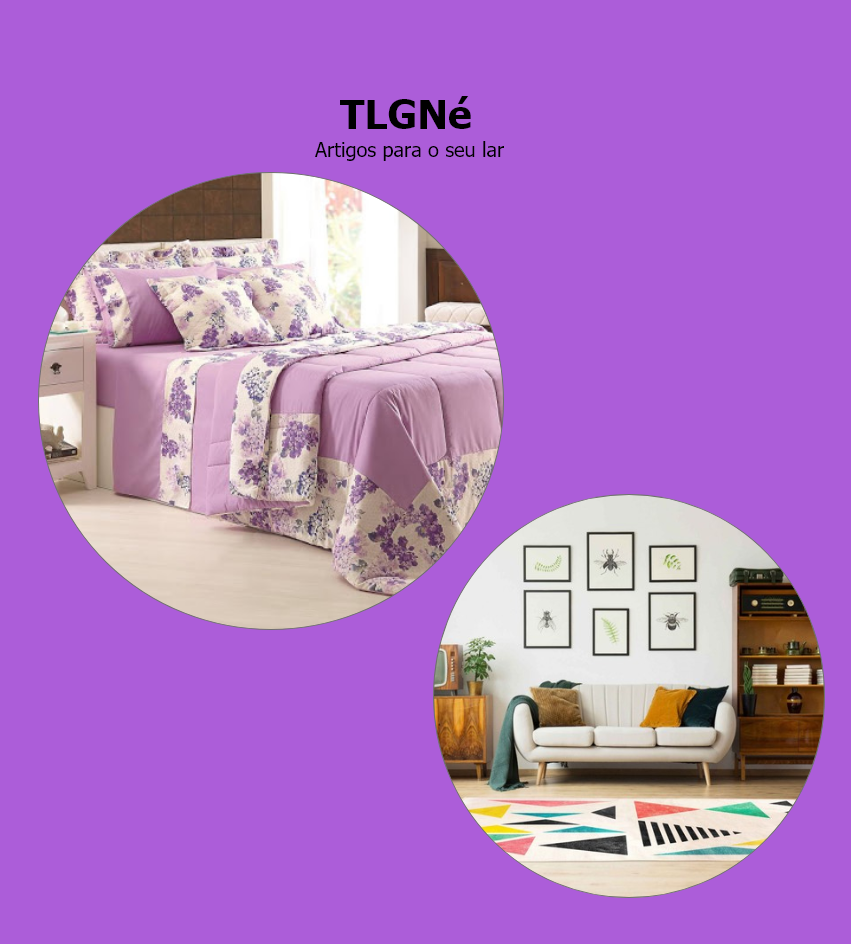
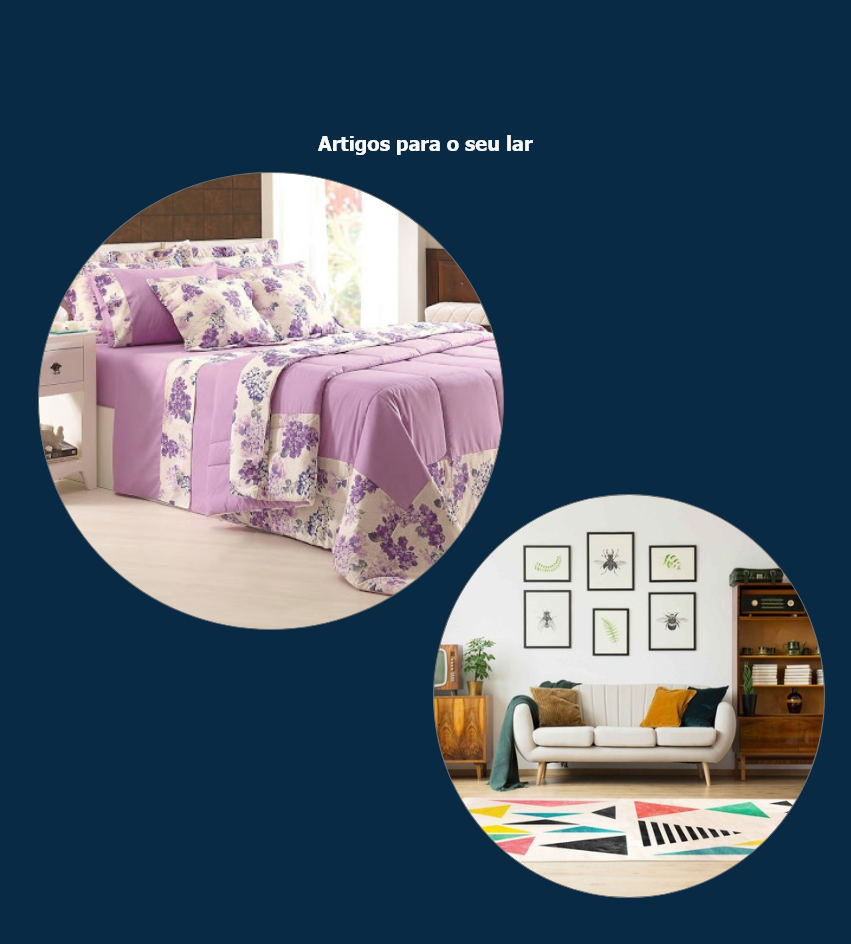
Login com token

diff --git a/src/app/modules/login/login/login.component.ts b/src/app/modules/login/login/login.component.ts
@@ -4,6 +4,7 @@ import { FormBuilder, FormControl, FormGroup, Validators } from '@angular/forms'
 import { Router } from '@angular/router';
 import { ConsoleService } from '@ng-select/ng-select/lib/console.service';
 import { ToastrService } from 'ngx-toastr';
+import { tap } from 'rxjs/operators';
 import { LoginService } from 'src/app/services/login.service';
 import { RoleGuardService } from 'src/app/services/RoleGuard.service';
 import { AuthenticatedUser } from './models/AuthenticatedUser';
@@ -21,7 +22,7 @@ export class LoginComponent implements OnInit {
   public rounded = 'true';
   public block = true;
   public loginForm: FormGroup;
-  public formValid=true;
+  public formValid = true;
   public floating = true;
   public usuarioAutenticado: AuthenticatedUser = new AuthenticatedUser();
 
@@ -44,23 +45,30 @@ export class LoginComponent implements OnInit {
 
   }
 
-  cadastrar(){
+  cadastrar() {
     this.router.navigate(['/criar-conta']);
   }
 
-  login(){
-    if(this.loginForm.valid){
-      this.loginService.login(this.loginForm.value.username, this.loginForm.value.password).subscribe((response: any) => {
-       console.log(response.HttpHeaders )
-      }, HttpErrorResponse => {
-        console.log(HttpErrorResponse)
-        this.toastr.error("Usuário ou senha inválida", "Erro", {
-          timeOut: 3000, positionClass: 'toast-top-center',
-        });
-      });
-    }else{
+  login() {
+    if (this.loginForm.valid) {
+      /* this.loginService.login(this.loginForm.value.username, this.loginForm.value.password).subscribe((response: any) => {
+         console.log(response['headers'].keys());
+         console.log(response['headers'].get('expires'));
+       }, err=>{
+         this.toastr.error("Usuário ou senha inválida", "Erro", {
+           timeOut: 3000, positionClass: 'toast-top-center',
+         });
+       }
+       );*/
+      this.loginService.login(this.loginForm.value.username, this.loginForm.value.password).subscribe(resp => {
+        const token=resp.headers.get('Authorization')?.replace('Bearer', '');
+        window.localStorage.setItem('access_token', token!)
+        this.router.navigate(['/dashboard'])
+      }
+      );
+    } else {
       console.log(this.loginForm.value)
-      this.formValid=false;
+      this.formValid = false;
     }
   }
 

diff --git a/src/app/modules/shared/main-nav-login/main-nav-login.component.html b/src/app/modules/shared/main-nav-login/main-nav-login.component.html
@@ -1,14 +1,11 @@
-<nav class="navbar navbar-expand-lg navbar-light bg-light">
-  <a class="navbar-brand" (click)="dashboard()">TLGNé</a>
+<nav class="navbar navbar-expand-lg navbar-light">
+  <a class="navbar-brand" (click)="dashboard()"><img class="img-fluid" src="../../../../assets/logos/logo_principal.png"></a>
   <button class="navbar-toggler" type="button" data-toggle="collapse" data-target="#navbarNav" aria-controls="navbarNav"
     aria-expanded="false" aria-label="Toggle navigation">
     <span class="navbar-toggler-icon"></span>
   </button>
   <div class="collapse navbar-collapse" id="navbarNav">
     <ul class="navbar-nav mr-auto">
-      <li class="nav-item active">
-        <a class="nav-link" href="#">Home <span class="sr-only">(current)</span></a>
-      </li>
       <ng-container *ngIf="userRole==='ROLE_ADMIN' || userRole==='ROLE_ESTOQUISTA'">
         <li class="nav-item"><a class="nav-link" routerLink="/produtos">Produtos</a></li>
         <li class="nav-item"><a class="nav-link" routerLink="/funcionarios">Funcionarios</a></li>
@@ -22,8 +19,8 @@
           Olá, faça seu login <br>   ou cadastre-se
         </a>
         <div class="custom-drop dropdown-menu dropdown-menu-right" aria-labelledby="navbarDropdown">
-            <a class="dropdown-item custom-item" routerLink='/login'>Entrar</a>
-            <a class="dropdown-item" routerLink='/criar-conta'>Cliente novo? Cadastre-se</a>
+            <a class="dropdown-item custom-item" routerLink='/login' >Entrar</a>
+            <a class="dropdown-item" routerLink='/criar-conta' >Cliente novo? Cadastre-se</a>
         </div>
       </li>
     </ul>

diff --git a/src/app/services/login.service.ts b/src/app/services/login.service.ts
@@ -1,7 +1,7 @@
 import { HttpClient, HttpHeaders, HttpParams, HttpResponse } from '@angular/common/http';
 import { Injectable } from '@angular/core';
-import { BehaviorSubject, Observable } from 'rxjs';
-import { map } from 'rxjs/operators';
+import { BehaviorSubject, observable, Observable } from 'rxjs';
+import { map, tap } from 'rxjs/operators';
 import { environment } from 'src/environments/environment';
 import { AuthenticatedUser } from '../modules/login/login/models/AuthenticatedUser';
 import { User } from '../modules/login/login/models/User';
@@ -18,11 +18,18 @@ export class LoginService {
   clienteId = environment.clientId;
   clienteSecret = environment.clientSecret;
 
-  public login(username: string, password: string) {
-    let usuario = { username: username, password: password }
-    let r= this.http.post<HttpResponse<any>>(`${this.apiUrl}/login`, usuario);
-    console.log(r)
-    return r;
+  public login(email: string, senha: string) {
+    const httpOptions = {
+      headers: new HttpHeaders({
+        'Content-Type': 'application/json;charset=UTF-8',
+        'Accept-Language': '1',
+      }),
+
+    };
+    return this.http.post<HttpResponse<any>>(`${this.apiUrl}/login`, { username: email, password: senha }, { observe: 'response' as 'body' })
+      .pipe(tap((resp: HttpResponse<any>) => {
+        return resp;
+      }));
 
   }
 

diff --git a/src/app/modules/shared/main-nav/main-nav.component.html b/src/app/modules/shared/main-nav/main-nav.component.html
@@ -1,14 +1,11 @@
-<nav class="navbar navbar-expand-lg navbar-light bg-light">
-  <a class="navbar-brand" (click)="dashboard()">TLGNé</a>
+<nav class="navbar navbar-expand-lg navbar-light">
+  <a class="navbar-brand" (click)="dashboard()"><img class="img-fluid" src="../../../../assets/logos/logo_principal.png"></a>
   <button class="navbar-toggler" type="button" data-toggle="collapse" data-target="#navbarNav" aria-controls="navbarNav"
     aria-expanded="false" aria-label="Toggle navigation">
     <span class="navbar-toggler-icon"></span>
   </button>
   <div class="collapse navbar-collapse" id="navbarNav">
     <ul class="navbar-nav mr-auto">
-      <li class="nav-item active">
-        <a class="nav-link" href="#">Home <span class="sr-only">(current)</span></a>
-      </li>
       <ng-container *ngIf="userRole==='ROLE_ADMIN' || userRole==='ROLE_ESTOQUISTA'">
         <li class="nav-item"><a class="nav-link" routerLink="/produtos">Produtos</a></li>
         <li class="nav-item"><a class="nav-link" routerLink="/funcionarios">Funcionarios</a></li>

diff --git a/src/app/services/auth.guard.ts b/src/app/services/auth.guard.ts
@@ -18,7 +18,7 @@ export class AuthGuard implements CanActivate {
     if (route.data.expectedRole.length) {
       if (user != null) {
         for (let i = 0; i < route.data.expectedRole.length; i++) {
-          if (user.authorities![0] === route.data.expectedRole[i]) {
+          if (user.aud === route.data.expectedRole[i]) {
             return true;
           }
         }
@@ -30,7 +30,7 @@ export class AuthGuard implements CanActivate {
       }
     }
     if (user != null) {
-      if (user.authorities![0] === route.data.expectedRole) {
+      if (user.aud === route.data.expectedRole) {
         return true;
       } else {
         this.router.navigate(['']);

diff --git a/src/app/modules/produto/produto/produto.component.ts b/src/app/modules/produto/produto/produto.component.ts
@@ -21,7 +21,7 @@ export class ProdutoComponent implements OnInit {
   public filtroPesquisa: string = "";
   searchFilter = new Subject<string>();
   color: ThemePalette = 'primary';
-  userRole:string;
+  userRole?:string;
   totalRegistros: number=0;
   page: number=1
   teste: boolean=false;
@@ -39,6 +39,7 @@ export class ProdutoComponent implements OnInit {
           });
       });
       this.userRole=this.roleGuardService.getUserRole();
+      console.log(this.userRole)
       this.isAdmin=this.userRole=='ROLE_ADMIN';
   }
 

diff --git a/src/app/modules/funcionario/funcionario/funcionario.component.ts b/src/app/modules/funcionario/funcionario/funcionario.component.ts
@@ -21,7 +21,7 @@ export class FuncionarioComponent implements OnInit {
   totalRegistros: number = 0;
   page: number = 1
   teste: boolean = false;
-  userRole:string;
+  userRole?:string;
   isAdmin: boolean;
   constructor(private roleGuardService: RoleGuardService, private spinner: NgxSpinnerService,private funcionarioService: FuncionarioService, private router: Router) {
     this.userRole=this.roleGuardService.getUserRole();

diff --git a/src/app/modules/shared/helpers/JwtInterceptor.ts b/src/app/modules/shared/helpers/JwtInterceptor.ts
@@ -11,6 +11,7 @@ export class JwtInterceptor implements HttpInterceptor {
     intercept(request: HttpRequest<any>, next: HttpHandler): Observable<HttpEvent<any>> {
         // add authorization header with jwt token if available
         let jwt = localStorage.getItem('access_token');
+        console.log(jwt)
         if(!request.url.startsWith('//viacep.com.br/ws')){
           if (jwt) {
             request = request.clone({

diff --git a/src/app/modules/shared/main-nav-login/main-nav-login.component.ts b/src/app/modules/shared/main-nav-login/main-nav-login.component.ts
@@ -9,7 +9,7 @@ import { RoleGuardService } from 'src/app/services/RoleGuard.service';
   styleUrls: ['./main-nav-login.component.css']
 })
 export class MainNavLoginComponent implements OnInit {
-  userRole: string;
+  public userRole?: string='';
 
   constructor(private loginService: LoginService,private router: Router, private roleGuardService: RoleGuardService) {
     this.userRole=roleGuardService.getUserRole();

diff --git a/src/app/services/admin.guard.ts b/src/app/services/admin.guard.ts
@@ -16,7 +16,7 @@ export class AdminGuard implements CanActivate {
     state: RouterStateSnapshot): boolean {
       const user = <TokenDecoded> this.roleGuardService.decodeJWT();
       if (user != null) {
-        if (user.authorities![0] === "ROLE_ADMIN") {
+        if (user.aud === "ROLE_ADMIN") {
           return true;
         } else {
           this.router.navigate(['']);

diff --git a/src/app/modules/shared/main-nav/main-nav.component.css b/src/app/modules/shared/main-nav/main-nav.component.css
@@ -1,13 +1,13 @@
 .navbar{
   font-weight: bold;
-  background-color: #8E88DF
+  background-color: #F1F1F1
 }
 .nav-link{
   font-weight: bold;
 }
 
 .custom-drop{
-  background-color: #8E88DF;
+  background-color: #F1F1F1     ;
   width: 250px;
 
 }
@@ -16,6 +16,7 @@
   font-weight: bold;
   width: 250px;
 }
+
 .img-fluid{
-  width: 10%;
+  width: 40%;
 }

diff --git a/src/app/modules/shared/main-nav-login/main-nav-login.component.css b/src/app/modules/shared/main-nav-login/main-nav-login.component.css
@@ -1,13 +1,13 @@
 .navbar{
   font-weight: bold;
-  background-color: #8E88DF
+  background-color: #F1F1F1
 }
 .nav-link{
   font-weight: bold;
 }
 
 .custom-drop{
-  background-color: #8E88DF;
+  background-color: #F1F1F1  ;
   width: 250px;
 
 }
@@ -17,5 +17,5 @@
   width: 250px;
 }
 .img-fluid{
-  width: 10%;
+  width: 40%;
 }
